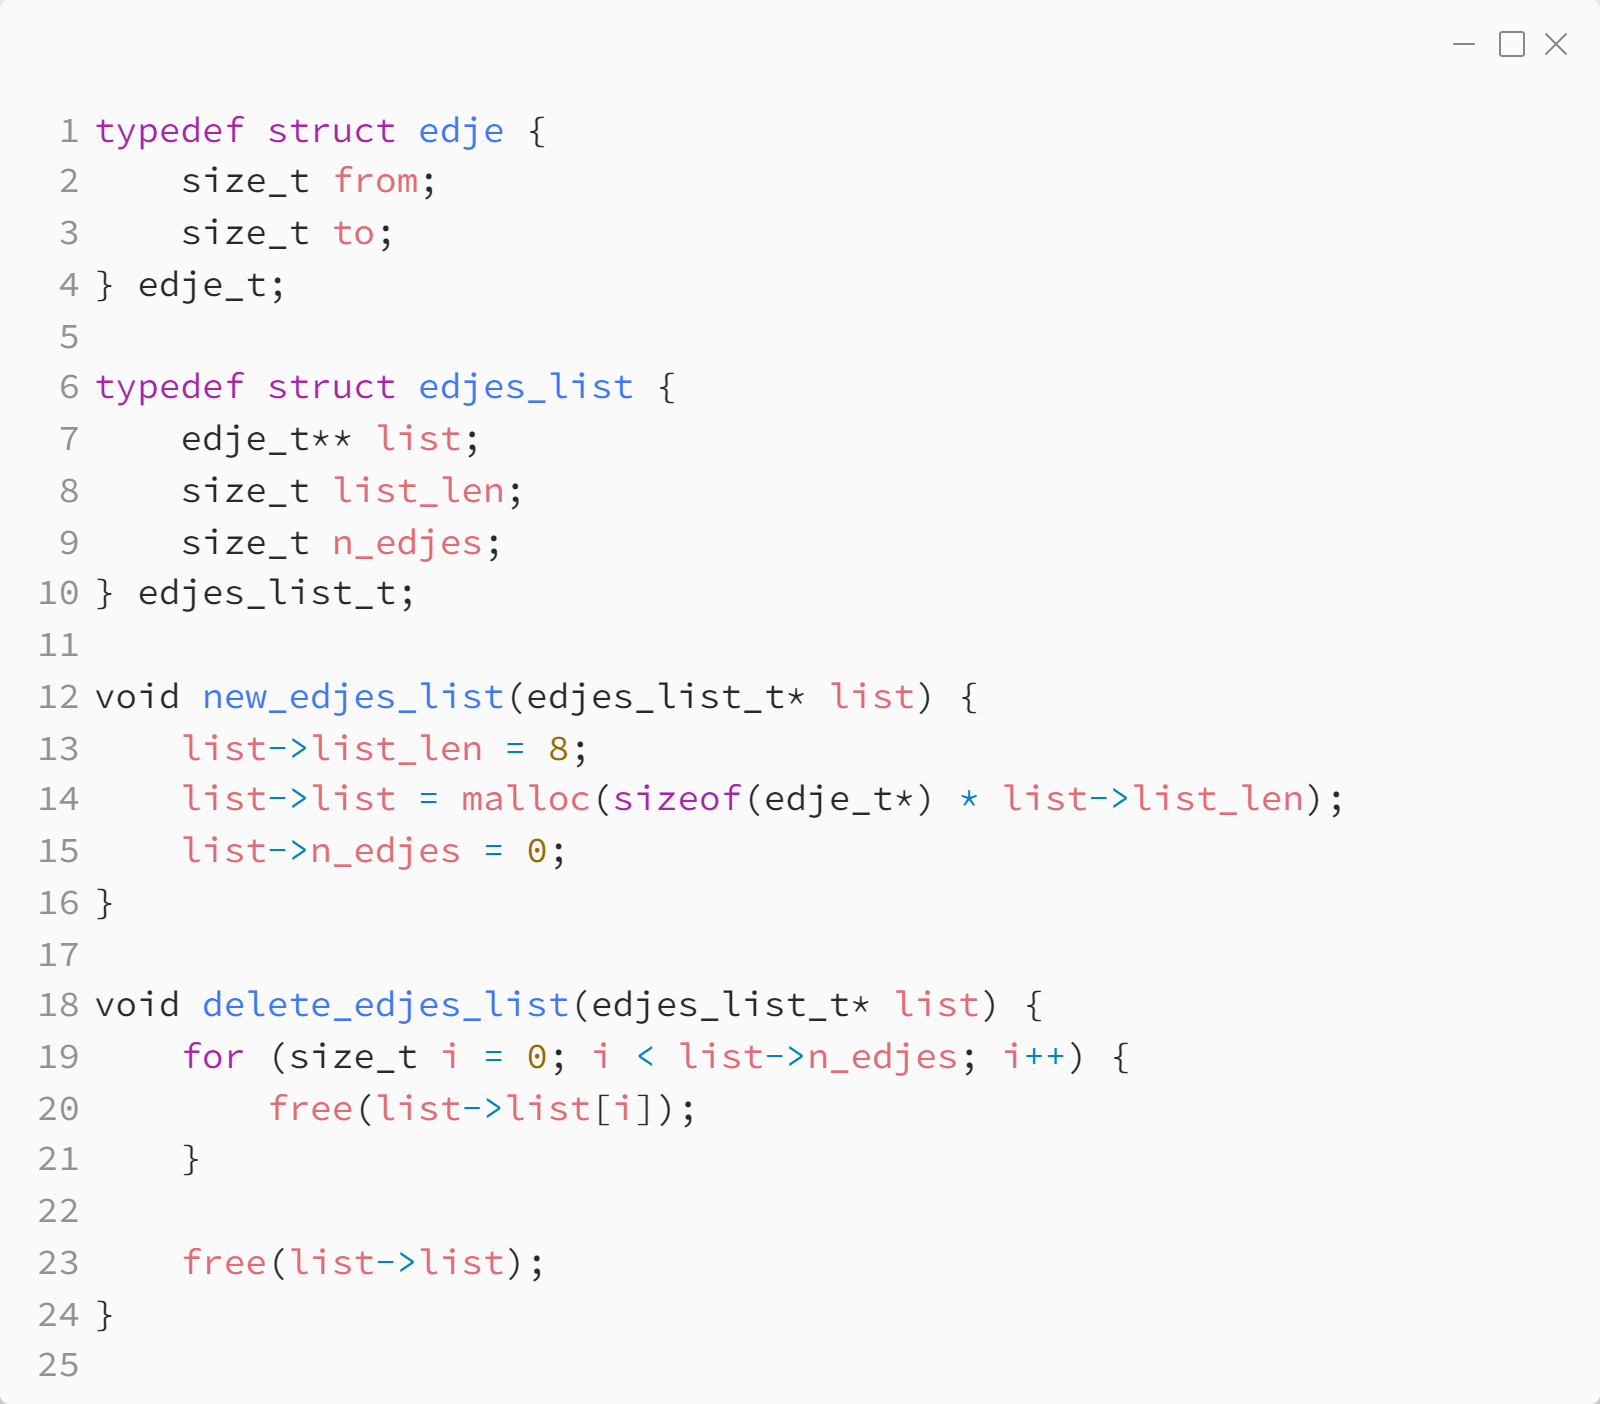
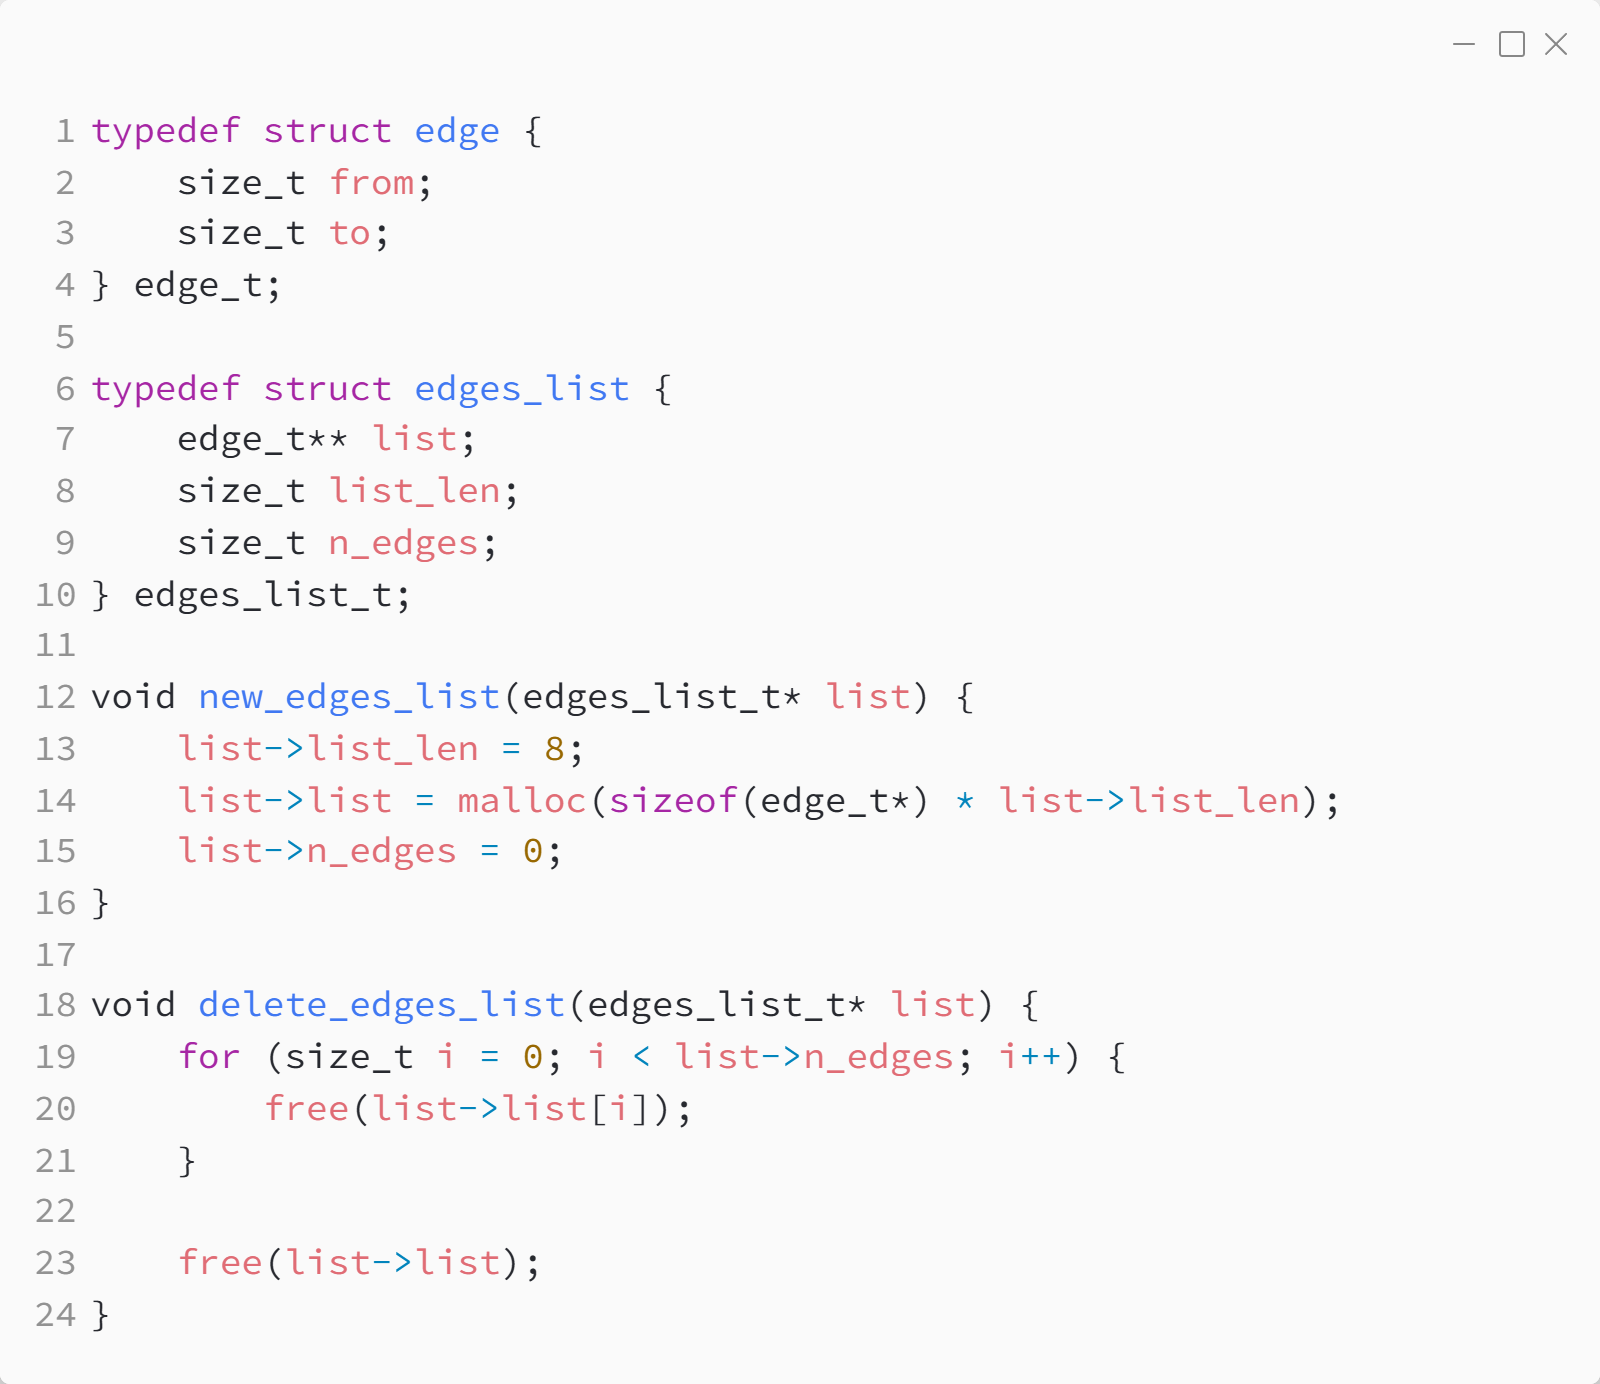
Fix typos

Changed region(s): [[0.0, 0.0621, 0.8438, 0.9942], [0.125, 0.8699, 0.3438, 0.9321], [0.5312, 0.4971, 0.5938, 0.5282]]

diff --git a/10_dsu_graphs/practice/src/edges_list.c b/10_dsu_graphs/practice/src/edges_list.c
@@ -4,52 +4,52 @@
 #include <stdbool.h>
 #include <string.h>
 
-typedef struct edje {
+typedef struct edge {
     size_t from;
     size_t to;
-} edje_t;
+} edge_t;
 
-typedef struct edjes_list {
-    edje_t** list;
+typedef struct edges_list {
+    edge_t** list;
     size_t list_len;
-    size_t n_edjes;
-} edjes_list_t;
+    size_t n_edges;
+} edges_list_t;
 
-void new_edjes_list(edjes_list_t* list) {
+void new_edges_list(edges_list_t* list) {
     list->list_len = 8;
-    list->list = malloc(sizeof(edje_t*) * list->list_len);
-    list->n_edjes = 0;
+    list->list = malloc(sizeof(edge_t*) * list->list_len);
+    list->n_edges = 0;
 }
 
-void delete_edjes_list(edjes_list_t* list) {
-    for (size_t i = 0; i < list->n_edjes; i++) {
+void delete_edges_list(edges_list_t* list) {
+    for (size_t i = 0; i < list->n_edges; i++) {
         free(list->list[i]);
     }
 
     free(list->list);
 }
 
-void add_edge(edjes_list_t* list, size_t from, size_t to) {
+void add_edge(edges_list_t* list, size_t from, size_t to) {
 
     // resize if needed
-    if (list->n_edjes+1 == list->list_len)
+    if (list->n_edges+1 == list->list_len)
     {
         list->list_len *= 2;
-        edje_t** new_list = malloc(sizeof(edje_t*) * list->list_len);
-        memcpy(new_list, list->list, list->n_edjes);
+        edge_t** new_list = malloc(sizeof(edge_t*) * list->list_len);
+        memcpy(new_list, list->list, list->n_edges);
         free(list->list);
         list->list = new_list;
     }
 
-    list->list[list->n_edjes] = malloc(sizeof(edje_t));
-    list->list[list->n_edjes]->from = from;
-    list->list[list->n_edjes]->to = to;
+    list->list[list->n_edges] = malloc(sizeof(edge_t));
+    list->list[list->n_edges]->from = from;
+    list->list[list->n_edges]->to = to;
 
-    list->n_edjes++;
+    list->n_edges++;
 }
 
-void print_edjes_list(edjes_list_t* list) {
-    for (size_t i = 0; i < list->n_edjes; i++) {
+void print_edges_list(edges_list_t* list) {
+    for (size_t i = 0; i < list->n_edges; i++) {
         printf("%ld to %ld ", list->list[i]->from, list->list[i]->to);
         printf("\n");
     }
@@ -57,12 +57,12 @@ void print_edjes_list(edjes_list_t* list) {
 
 int main() {
 
-    edjes_list_t l;
-    edjes_list_t* p_l = &l;
+    edges_list_t l;
+    edges_list_t* p_l = &l;
 
-    new_edjes_list(p_l);
+    new_edges_list(p_l);
 
-    print_edjes_list(p_l);
+    print_edges_list(p_l);
 
     add_edge(p_l, 2, 3);
     add_edge(p_l, 3, 5);
@@ -71,9 +71,9 @@ int main() {
     add_edge(p_l, 6, 7);
     add_edge(p_l, 7, 5);
 
-    print_edjes_list(p_l);
+    print_edges_list(p_l);
 
-    delete_edjes_list(p_l);
+    delete_edges_list(p_l);
 
     return 0;
 }
